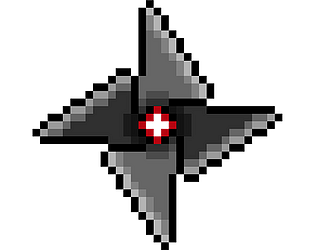
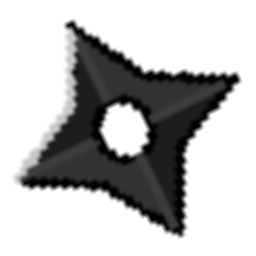
did a lot today

diff --git a/scripts/gameObjects/skeleton.js b/scripts/gameObjects/skeleton.js
@@ -63,7 +63,7 @@ class Skeleton extends BaseGameObject {
     constructor(x, y, width, height) {
         super(x, y, width, height);
         //this.loadImages(["./images/apple.png"]);
-        this.loadImagesFromSpritesheet("./images/BODY_skeleton.png", 9, 4, 9);
+        this.loadImagesFromSpritesheet("./images/BODY_player.png", 9, 4, 9);
         this.switchCurrentSprites(18, 18);
         this.updateHealthDisplay();
     }
@@ -73,7 +73,7 @@ class Skeleton extends BaseGameObject {
         healthContainer.innerHTML = "";
         for (let i = 0; i < this.currentHealth; i++) {
             let heart = document.createElement("img");
-            heart.src = "./images/apple.png";
+            heart.src = "./images/heart.png";
             heart.classList.add("heart");
             healthContainer.appendChild(heart);
         }

diff --git a/scripts/modules/main.js b/scripts/modules/main.js
@@ -106,7 +106,8 @@ function setupGame() {
 
     new Heart(400, 200, 50, 50);
     new Enemy(500, 400, 50, 50);
-    new Door(1300, 350, 50, 50);
+    new Door(1775, 300, 85, 100);
+
 
     console.log(global.playerObject)
 
@@ -139,9 +140,10 @@ function setupGame1() {
     new BlockObject(200, 280, 50, 50);
     new BlockObject(400, 200, 50, 50);
     new BlockObject(400, 200, 50, 50);
+
     new Heart(400, 200, 50, 50);
     new Enemy(500, 400, 50, 50);
-    new Bed(1300, 350, 50, 50);
+    new Bed(1750, 275, 75, 150);
 
     console.log(global.playerObject)
 

diff --git a/scripts/gameObjects/heart.js b/scripts/gameObjects/heart.js
@@ -39,7 +39,7 @@ class Heart extends BaseGameObject {
 
     constructor(x, y, width, height) {
         super(x, y, width, height);
-        this.loadImages(["./images/apple.png"]);
+        this.loadImages(["./images/heart.png"]);
     }
 }
 

diff --git a/scripts/gameObjects/door.js b/scripts/gameObjects/door.js
@@ -17,7 +17,7 @@ class Door extends BaseGameObject {
 
     constructor (x, y, width, height) {
         super(x, y, width, height);
-        this.loadImages(["./images/wall.jpg"]);
+        this.loadImages(["./images/door.png"]);
     }
 }
 

diff --git a/scripts/gameObjects/bed.js b/scripts/gameObjects/bed.js
@@ -17,7 +17,7 @@ class Bed extends BaseGameObject {
 
     constructor (x, y, width, height) {
         super(x, y, width, height);
-        this.loadImages(["./images/wall.jpg"]);
+        this.loadImages(["./images/bed.png"]);
     }
 }
 

diff --git a/README.md b/README.md
@@ -62,10 +62,25 @@ PROBLEMS OCCURED: --
 
 Plan for the day:
 - Make two levels ✅
-- Work on the background of the game ✅
+- Work on the background of the game ❌
 
 PROBLEMS OCCURED: --
 
+
+### Day 6 20-01-2025
+
+Plan for the day:
+- Create spritesheets for Player character
+- Implement throwing animation sprite correctly ❌
+- Paint background ❌
+- Create the enemy character(s)
+- Create assets for:
+    - wall objects
+    - door
+    - bed
+    - heart
+    - shuriken ✅
+     
 
 
 ### For the coming days
